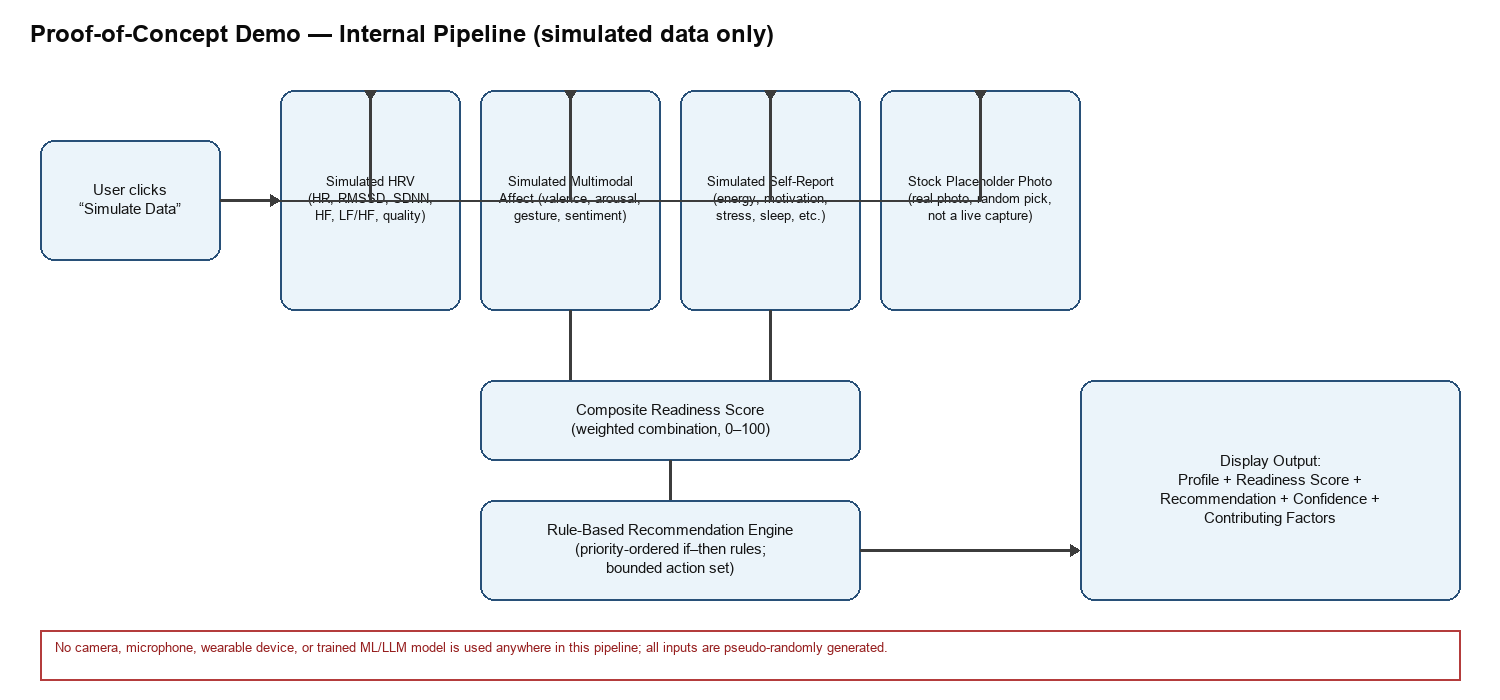
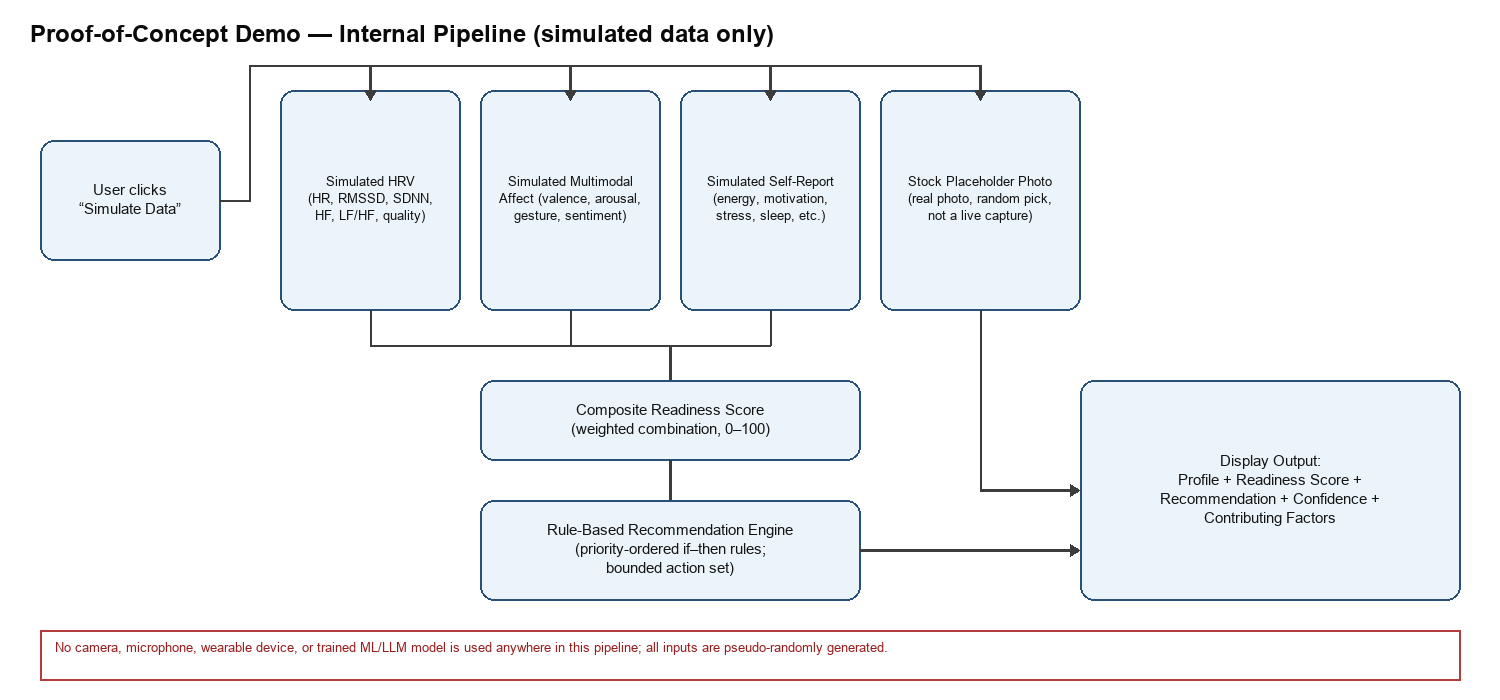
Fix connector routing in architecture diagram
Route the stage-1-to-generators connector via a bus line above the boxes
instead of through their vertical midpoint, so it no longer cuts across
box text. Also correct the stage-2-to-3 connections to include all three
scoring inputs (HRV, affect, self-report) and route the stock-photo box
directly to the display stage, since it is illustrative only and not used
in the readiness computation.

diff --git a/scripts/generate_architecture_diagram.py b/scripts/generate_architecture_diagram.py
@@ -82,19 +82,31 @@ def main():
     for text, x0, x1 in gens:
         draw_box(draw, (x0, gen_y0, x1, gen_y1), text, small_font)
 
-    h_arrow(draw, b1[2], 270, 200)
-
-    # connect midpoint of stage1 box to each generator box top via elbowed lines
-    mid_y = 200
+    # Route the connector from stage 1 to the four generator boxes via a bus
+    # line ABOVE the boxes (bus_y < gen_y0), so it never crosses box interiors.
+    riser_x = 250
+    bus_y = 65
+    b1_cx_y = (b1[1] + b1[3]) // 2  # 200
+    draw.line([(b1[2], b1_cx_y), (riser_x, b1_cx_y)], fill=ARROW_COLOR, width=2)
+    draw.line([(riser_x, b1_cx_y), (riser_x, bus_y)], fill=ARROW_COLOR, width=2)
+    last_cx = max((x0 + x1) // 2 for _, x0, x1 in gens)
+    draw.line([(riser_x, bus_y), (last_cx, bus_y)], fill=ARROW_COLOR, width=2)
     for text, x0, x1 in gens:
         cx = (x0 + x1) // 2
-        draw.line([(270, mid_y), (cx, mid_y)], fill=ARROW_COLOR, width=2)
-        v_arrow(draw, cx, mid_y, gen_y0)
+        v_arrow(draw, cx, bus_y, gen_y0)
 
-    # Stage 3: composite readiness score
+    # Stage 3: composite readiness score. Only HRV, affect, and self-report
+    # feed the readiness score (the photo is illustrative only and is not
+    # used in any computation); converge those three via a bus placed just
+    # below the generator boxes so lines never cross box interiors.
     b3 = (480, 380, 860, 460)
-    v_arrow(draw, 570, gen_y1, b3[1])
-    v_arrow(draw, 770, gen_y1, b3[1])
+    b3_cx = (b3[0] + b3[2]) // 2
+    converge_y = 345
+    scoring_cxs = [(x0 + x1) // 2 for _, x0, x1 in gens[:3]]
+    for cx in scoring_cxs:
+        draw.line([(cx, gen_y1), (cx, converge_y)], fill=ARROW_COLOR, width=2)
+    draw.line([(min(scoring_cxs), converge_y), (max(scoring_cxs), converge_y)], fill=ARROW_COLOR, width=2)
+    v_arrow(draw, b3_cx, converge_y, b3[1])
     draw_box(draw, b3, "Composite Readiness Score\n(weighted combination, 0\u2013100)", box_font)
 
     # Stage 4: rule-based recommendation engine
@@ -111,6 +123,13 @@ def main():
         "Display Output:\nProfile + Readiness Score +\nRecommendation + Confidence +\nContributing Factors",
         box_font,
     )
+
+    # Stock photo bypasses scoring/recommendation entirely and routes
+    # straight to the display stage, since it is illustrative only.
+    photo_cx = (gens[3][1] + gens[3][2]) // 2
+    b5_cy = (b5[1] + b5[3]) // 2
+    draw.line([(photo_cx, gen_y1), (photo_cx, b5_cy)], fill=ARROW_COLOR, width=2)
+    h_arrow(draw, photo_cx, b5[0] - 10, b5_cy)
 
     # Note box
     note_font = get_font(13)
